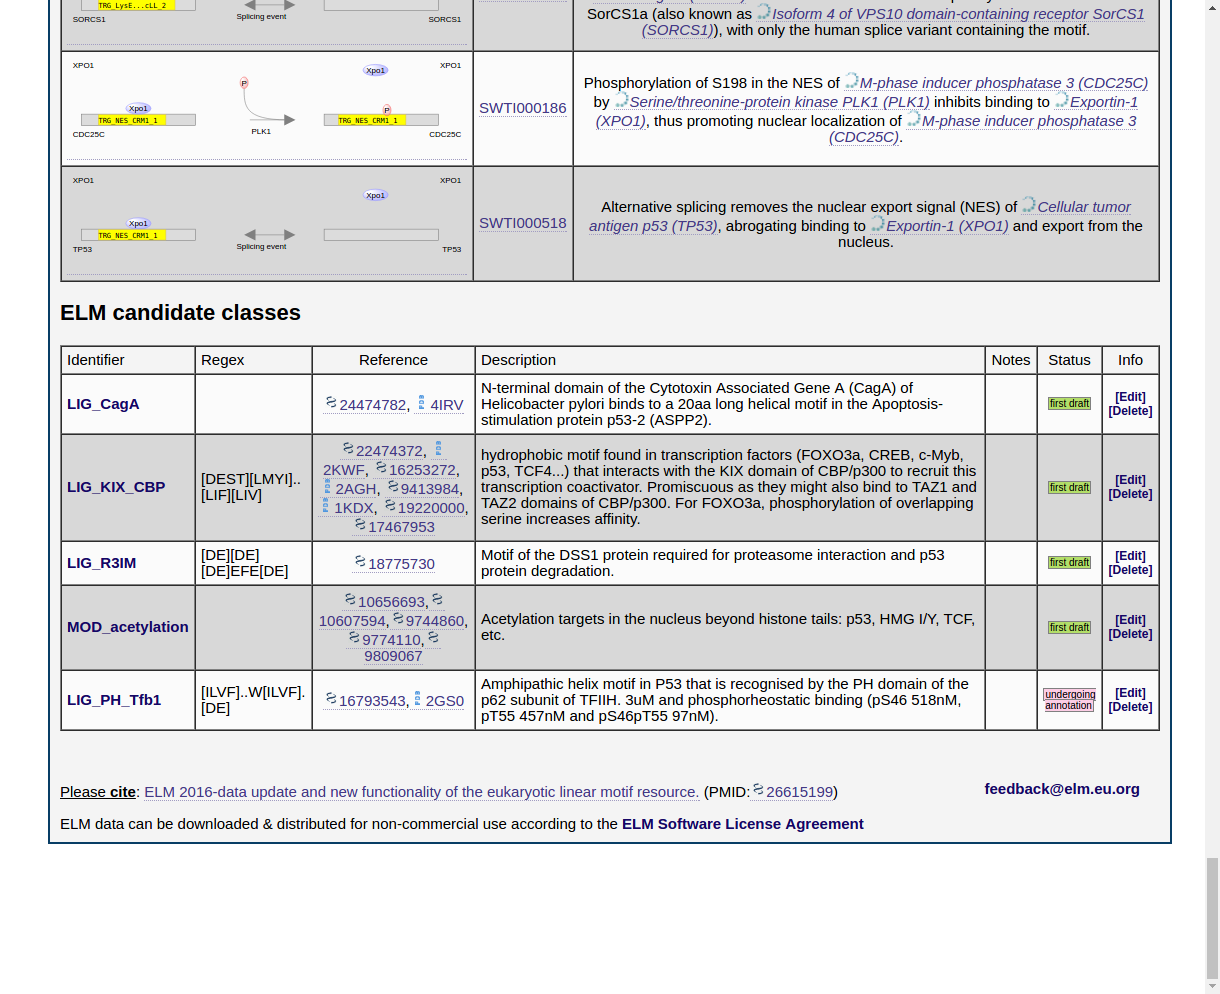
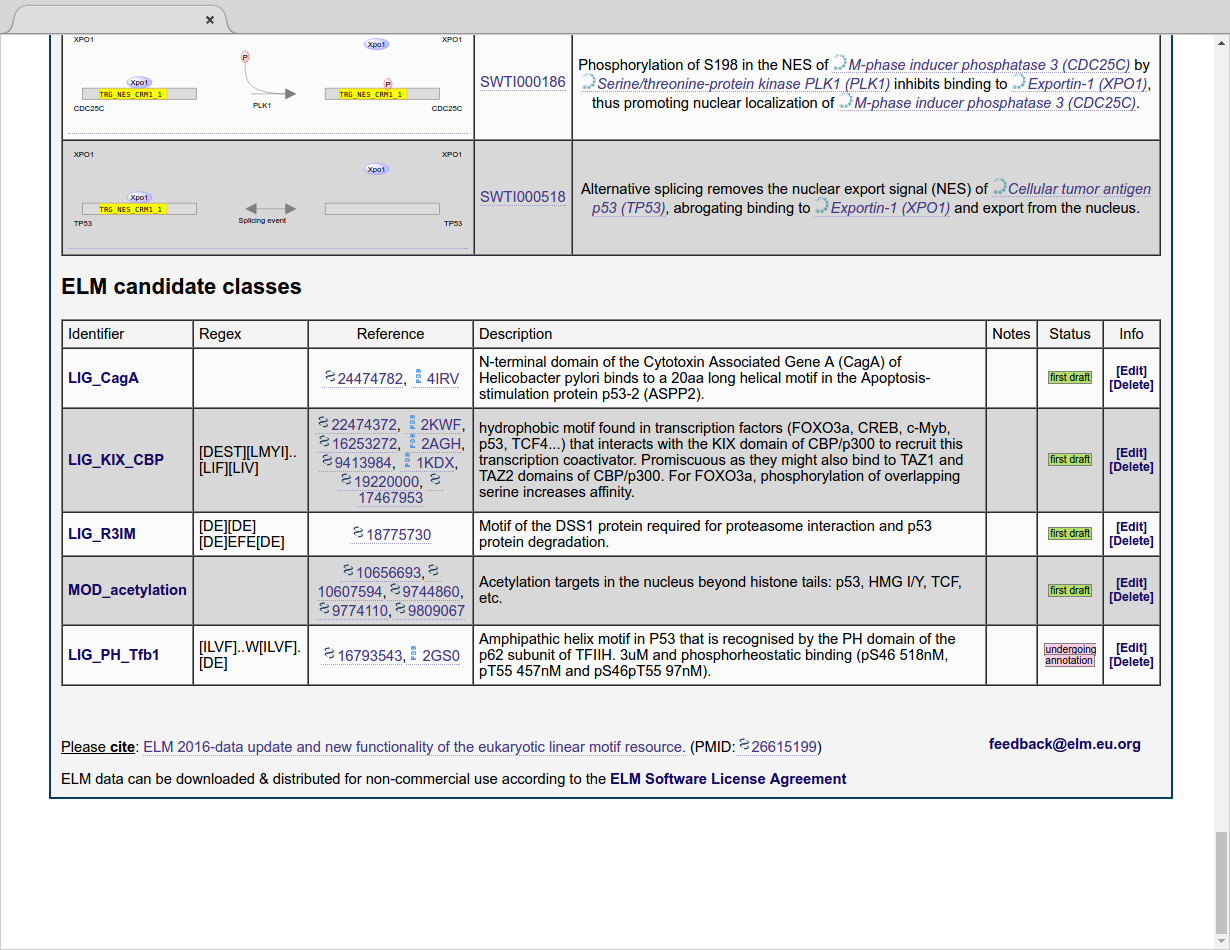
Added new figures, renames and rereferenced.

Changed region(s): [[0.0, 0.0, 1.0, 1.0]]

diff --git a/5-BACT_basic_protocol_3.md b/5-BACT_basic_protocol_3.md
@@ -18,7 +18,7 @@ smartphones will also work.
 
 ## Submitting a query to ELM
 
-![](../Figures/BACT_basic_protocol_2/prediction_input.png)
+![](Figures/BACT_1/elm_search.png)
 **Figure BACT-BP-1:** The input query page for finding motifs in ELM. The
 sequence for SRC kinase signaling inhibitor was used as an example for this
 article.
@@ -52,7 +52,7 @@ step 3. Retrieve the amino acid sequence from Uniprot, and submit the sequence.
 
 ## Interpreting the prediction results: Graphical Summary
 
-![](../Figures/BACT_basic_protocol_2/output_graphic.png)
+![](Figures/BACT_1/elm_results_summary.png)
 **Figure BACT-BP-2:** The graphical results summary for SRC kinase signaling inhibitor
 1 (SRCN1_HUMAN). Note that not all motif hits are shown: the image is chopped
 off at the bottom. The protein has a handful of structural features (shown in
@@ -133,7 +133,7 @@ step 11. Mouse over a gray rectangle (filtered out) to find out why this hit was
 
 ## Interpreting the prediction results: Additional Information
 
-![](../Figures/BACT_basic_protocol_2/output_alignment.png)
+![](Figures/BACT_1/elm_results_alignments.png)
 **Figure BACT-BP-3:** This section of the results contains links to view the
 alignment of homologous proteins. Click any of the links to find SRCN1
 homologs identified in the UniRef90 database.
@@ -154,7 +154,7 @@ step 12. Scroll down to below the results graphic to find additional
 > message "Either not enough data available to calculate a sequence alignment or the calculations haven't finished yet"
 > The information in the MSA is useful because... ehhhmm..???
 
-![](../Figures/BACT_basic_protocol_2/output_filter.png)
+![](Figures/BACT_1/elm_results_filtering.png)
 **Figure BACT-BP-4:** A summary of how many motif and instance hits were predicted,
 and how many were filtered out by various filters. As no user supplied filters
 were applied, motifs are only filtered out for structural reasons. In this
@@ -177,7 +177,7 @@ step 13. Scroll down a little further to the section titled "Filtering Summary" 
 > those filtered out by by the SMART and Structural scores are shown in the
 > graphic above (as gray rectangles).
 
-![](../Figures/BACT_basic_protocol_2/output_domains.png)
+![](Figures/BACT_1/elm_results_domains.png)
 **Figure BACT-BP-5:** The list of SMART and Pfam domains detected. In this
 instance, only a single coiled-coil region was identified.
 
@@ -187,7 +187,7 @@ step 14. Scroll further down to the section with the header "Globular domains/ T
    server, and their positions. Clicking on their names will bring you to the
    SMART entry for that domain on the SMART homepage.
 
-![](../Figures/BACT_basic_protocol_2/output_instances.png)
+![](Figures/BACT_basic_protocol_2/output_instances.png)
 **Figure BACT-BP-6:** This protein was already annotated in the database, and
 has a single instance of the motif "LIG_SxIP_EBH_1" annotated.
 
@@ -212,7 +212,7 @@ step 15. Scroll further down to the section titled "The ELMs in the following ta
 > means that this instance is functional, whereas a "True Negative" means
 > this instance is not functional.
 
-![](../Figures/BACT_basic_protocol_2/output_predictions.png)
+![](Figures/BACT_1/elm_results_motifs.png)
 **Figure BACT-BP-7:** This table contains the list of motifs detected in the
 sequence (only the top part of the table is shown).
 
@@ -231,7 +231,7 @@ step 16. Scroll further down to the section with the heading "Results of ELM mot
    information on the Probability filter: the probability reflects the chance
    to observe this motif in any random amino acid sequence.
 
-![](../Figures/BACT_basic_protocol_2/output_filtered.png)
+![](Figures/BACT_1/elm_results_motifs_filtered.png)
 **Figure BACT-BP-8:** This table contains the list of motifs detected in the
 sequence (only the top part of the table is shown) which were excluded due to
 structural filters.

diff --git a/4-P53_basic_protocol_2.md b/4-P53_basic_protocol_2.md
@@ -8,7 +8,7 @@ overview of all the data, and types of data contained in the database.
 
 ## Database content overview
 
-![](Figures/TP53_basic_protocol_2/search.png)
+![](Figures/TP53_2/stats.png)
 **Figure TP53-BP2-1** The ELM database overview page (elm.eu.org/search.db).
 
 Step 1. Go to http://elm.eu.org and click on the tab "ELM DB" to explore the
@@ -17,7 +17,7 @@ were manually curated from the literature (Figure TP53-BP2-1). This page
 contains a brief summary of the database content, as well as the number of
 links to third-party databases.
 
-![](Figures/TP53_basic_protocol_2/search_results.png)
+![](Figures/TP53_2/elms.png)
 **Figure TP53-BP2-2** The list of all motifs in the ELM database.
 
 Step 2. Click on the sub-menu "ELM classes" in "ELM DB" to see the page with all
@@ -38,7 +38,7 @@ click on the number of instances.
 > values" file.
 
 
-![](Figures/TP53_basic_protocol_2/instances.png)
+![](Figures/TP53_2/instances.png)
 **Figure TP53-BP2-3** The list of all instances in the ELM database.
 
 Step 3. Click on the sub-menu "ELM instances" in "ELM DB" to go to
@@ -53,7 +53,7 @@ as step XXXX, figure YYY in the previous section).
 > top of the page can be used to download the instances in the following formats: gff,
 > pir, fasta or tsv.
 
-![](Figures/TP53_basic_protocol_2/methods.png)
+![](Figures/TP53_2/methods.png)
 **Figure TP53-BP2-4** The list of all experimental methods used in the ELM database.
 
 Step 4. Click on the sub-menu "ELM methods " in "ELM DB" to see a list
@@ -68,7 +68,7 @@ annotated using that method.
 > The filter bar on the top page can be used to filter the list of methods. The
 > *tsv* link creates a downloadable file in "tab separated values" format.
 
-![](Figures/TP53_basic_protocol_2/pdbs.png)
+![](Figures/TP53_2/pdbs.png)
 **Figure TP53-BP2-5** The list of all known structures in PDB also in ELM.
 
 Step 5. Click on the sub-menu "ELM pdb structures" in "ELM DB" to see a
@@ -81,7 +81,7 @@ This page also contains links to RCSB (PMID:12037327), the individual instance a
 > values" format. The *tsv* file contains the PDB id, uniprot name, and ELM class.
 
 
-![](Figures/TP53_basic_protocol_2/interactions.png)
+![](Figures/TP53_2/interactiondomains.png)
 **Figure TP53-BP2-6** A list of all interactions annotated in the database.
 
 Step 6. Click on the sub-menu "ELM binding domains " in "ELM DB" to see a
@@ -97,7 +97,7 @@ well as the name of the interacting domain followed by a brief description.
 
 ## Links to external resources
 
-![](Figures/TP53_basic_protocol_2/switches.png)
+![](Figures/TP53_2/switches.png)
 **Figure TP53-BP2-7** A list of all switches annotated in ELM.
 
 Step 7. Click on the sub-menu "ELM switches" in "ELM DB" to see a
@@ -111,7 +111,7 @@ description of the switch also taken from switches.ELM (PMID:23550212).
 > shown. 
 
 
-![](Figures/TP53_basic_protocol_2/pathways.png)
+![](Figures/TP53_2/pathways.png)
 **Figure TP53-BP2-8** A list of all Pathways from KEGG with proteins in ELM.
 
 Step 8. Click on the sub-menu "ELM pathways" in "ELM DB" to see a list of
@@ -122,7 +122,7 @@ pathways which have a protein annotated in ELM, and links to the pathways on KEG
 
 ## Infections and Diseases
 
-![](Figures/TP53_basic_protocol_2/viruses.png)
+![](Figures/TP53_2/viruses.png)
 **Figure TP53-BP2-9** A Table of the ELM instance abused by viruses 
 
 Step 9. Click on the sub-menu "ELM virus instances" in "ELM DB" to see a
@@ -136,7 +136,7 @@ XXX step YYY (Figure ZZZZ).
 > section XXX for a description of these formats.)
 
 
-![](Figures/TP53_basic_protocol_2/diseases.png)
+![](Figures/TP53_2/diseases.png)
 **Figure TP53-BP2-10** A list of all diseases in ELM. 
 
 Step 10. Click on the sub-menu "ELM diseases" in "ELM DB" to see a list

diff --git a/3-P53_basic_protocol_1.md b/3-P53_basic_protocol_1.md
@@ -28,7 +28,8 @@ smartphones will also work.
 
 ## Searching ELM database content
 
-![](Figures/TP53_basic_protocol_1/input_page_seq.png)
+![](Figures/TP53_1/elm_search.png)
+
 **Figure TP53-BP1-1** The query input page for ELM for predicting motifs in a given protein sequence.
 
 Step 1. Open a browser, and navigate to the ELM homepage: http://elm.eu.org.
@@ -50,7 +51,7 @@ view the motif instance data for p53. (Fig. TP53-BP1-1)
 
 ## Browsing annotation details. 
 
-![](Figures/TP53_basic_protocol_1/output_graphic.png)
+![](Figures/TP53_1/elm_results_summary.png)
 **Figure TP53-BP1-2**
 
 Step 2. The results from the query will open in a new tab (Fig. TP53-BP1-2).
@@ -63,7 +64,7 @@ represent predicted motif occurrences (which are further discussed in Basic
 Protocol 3: Predicting ELMs in sequences)
 
 
-![](Figures/TP53_basic_protocol_1/output_table.png)
+![](Figures/TP53_1/elm_results_known.png)
 **Figure TP53-BP1- 3**
 
 Step 3. On the results page, scroll down to the heading: "The ELMs in the
@@ -85,7 +86,7 @@ has been associated, and finally the regular expression of the motif.
 
 ## Browsing Motif information.
 
-![](Figures/TP53_basic_protocol_1/doc_cyclin_page.png)
+![](Figures/TP53_1/doc_cyclin_1_class.png)
 **Figure TP53-BP1- 4** The motif details page for "DOC_CYCLIN_1". This page
 contains all of the manual annotation details for the DOC_CYCLIN_1 motif,
 the biological background summarized from the scientific literature including
@@ -124,7 +125,7 @@ database, as well as links to PDB if this structure exists in PDB.
 
 ## Browsing annotated instances
 
-![](Figures/TP53_basic_protocol_1/doc_cyclin_experiments.png)
+![](Figures/TP53_1/doc_cyclin_1_instance.png)
 **Figure TP53-BP1- 5** The instance details page for the "DOC_CYCLIN_1"
 instance found in P53 with start/end position "381-385".
 This page also contains links to many external databases including Uniprot (PMID:25348405),
@@ -153,7 +154,7 @@ information. This is a list of all of the pathways in which the protein p53 is
 known to be involved (according to KEGG). Click on a pathway to see the 
 localization of p53 in the corresponding KEGG pathway.
 
-![](Figures/TP53_basic_protocol_1/doc_www_pin_details.png)
+![](Figures/TP53_1/doc_ww_pin_1_4_instance.png)
 **Figure TP53-BP1-6** The instance details page for the "DOC_WW_Pin1_4"
 instance found in P53 with start/end position "30-35". 
 

diff --git a/6-BACT_alternate_protocol_2.md b/6-BACT_alternate_protocol_2.md
@@ -10,7 +10,7 @@ However, any browser can be used to access the server, most browsers however dow
 
 ## Downloading all ELM classes
 
-![](../Figures/BACT_alternate_protocol_2/elm_downloads_html.png)
+![](Figures/BACT_2/elm_downloads_html.png)
 
 **Figure ELM-Downloads:** The ELM downloads page, which holds information about
 the different types of data (such as "Classes", "Instances", etc; see menu to
@@ -38,7 +38,7 @@ step 3. Use the following URL: 'http://elm.eu.org/elms.html?q=CSK'
 > This will again show the webpage with all annotated ELM classes, this time however limited to those matching the query term 'PCSK'.
 > Next, we are going to use the same URL pattern, but with '.tsv' to download the same data as actual data, not HTML.
 
-![](../Figures/BACT_alternate_protocol_2/elm_curl_classes_CSK.png)
+![](Figures/BACT_2/elm_curl_classes_CSK.png)
 **Figure ELM-Curl-Classes**:
 Screenshot of a terminal window using `curl` to download all ELM classes matching the term 'CSK'.
 
@@ -64,7 +64,7 @@ step 4. Use the following URL: 'http://elm.eu.org/elms.tsv?q=CSK'
 ```
 
 
-![](../Figures/BACT_alternate_protocol_2/elm_curl_instances_p53_human.png)
+![](Figures/BACT_2/elm_curl_instances_p53_human.png)
 **Figure ELM-Curl-Instances-P53**:
 Screenshot of a terminal window using `curl` to download all ELM instances annotated for sequence p53_human.
 
